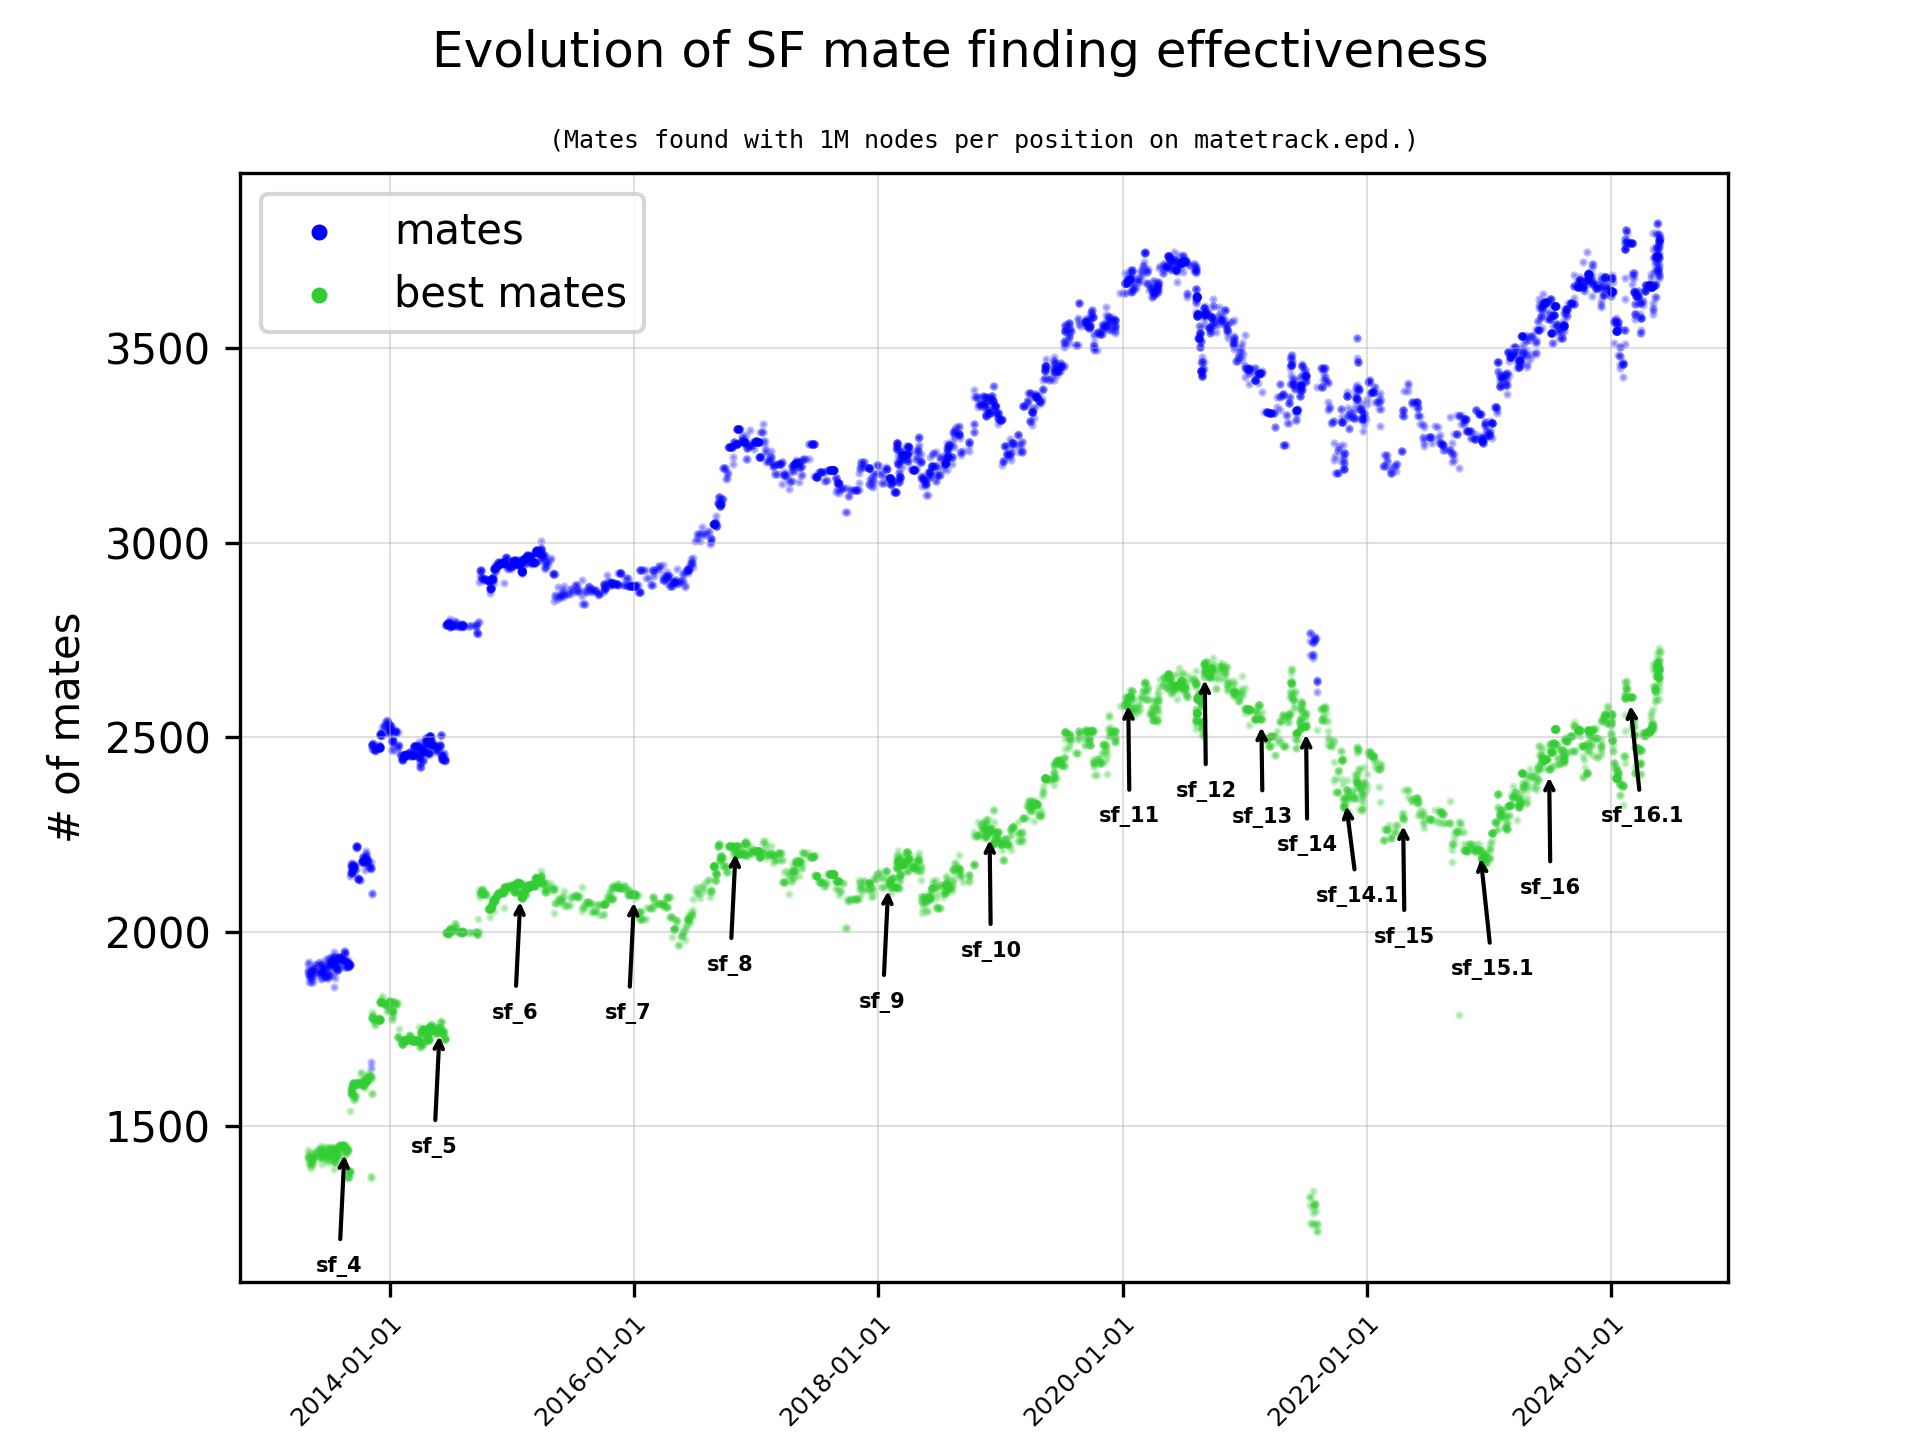
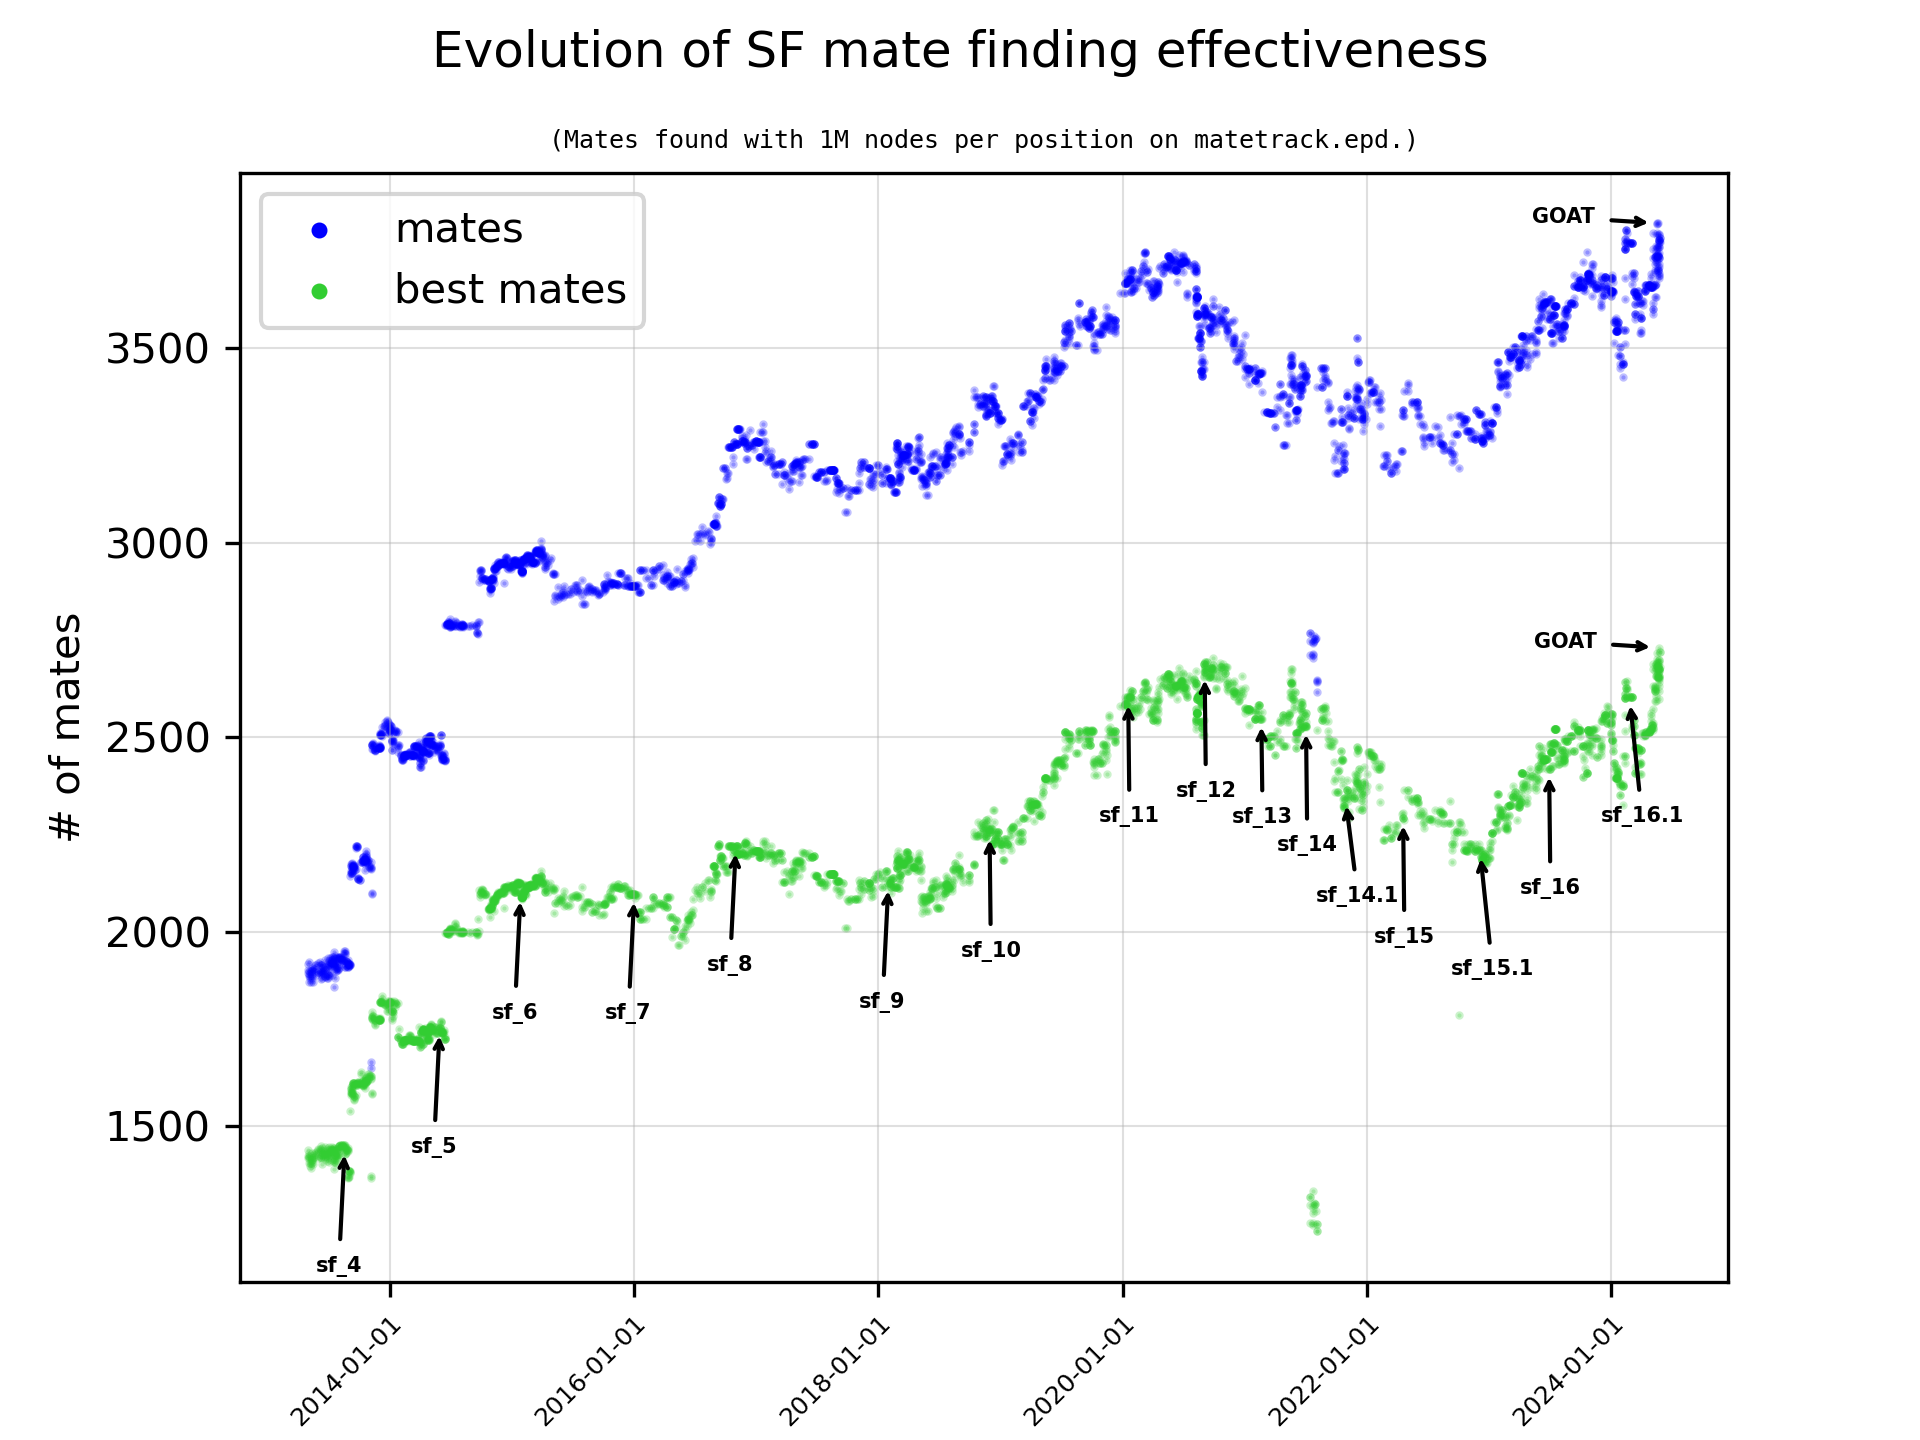
Add a GOAT label to the best result so far

diff --git a/plotdata.py b/plotdata.py
@@ -42,6 +42,7 @@ class matedata:
         fig, ax = plt.subplots()
         yColor, dateColor = "black", "black"
         bmateColor, mateColor = "limegreen", "blue"
+
         if plotAll:
             dotSize = 1
             bmate = ax.scatter(d, m, label="mates", color=mateColor, s=dotSize)
@@ -110,6 +111,25 @@ class matedata:
                     fontsize=5,
                     weight="bold",
                 )
+
+        # GOAT label
+        for dataset in [self.mates, self.bmates]:
+            maxIndex = dataset.index(max(dataset))
+            usedAxis = ax2 if not plotAll and dataset == self.mates else ax
+            usedAxis.annotate(
+                "GOAT",
+                xy=(
+                    self.date[maxIndex] if plotAll else maxIndex - len(dataset),
+                    dataset[maxIndex],
+                ),
+                xycoords="data",
+                xytext=(-30, 0),
+                textcoords="offset points",
+                arrowprops=dict(arrowstyle="->", color="black"),
+                fontsize=5,
+                weight="bold",
+            )
+
         fig.suptitle("Evolution of SF mate finding effectiveness")
         nodes = self.prefix[len(self.prefix.rstrip("0123456789")) :]
         if nodes.endswith("0" * 9):
